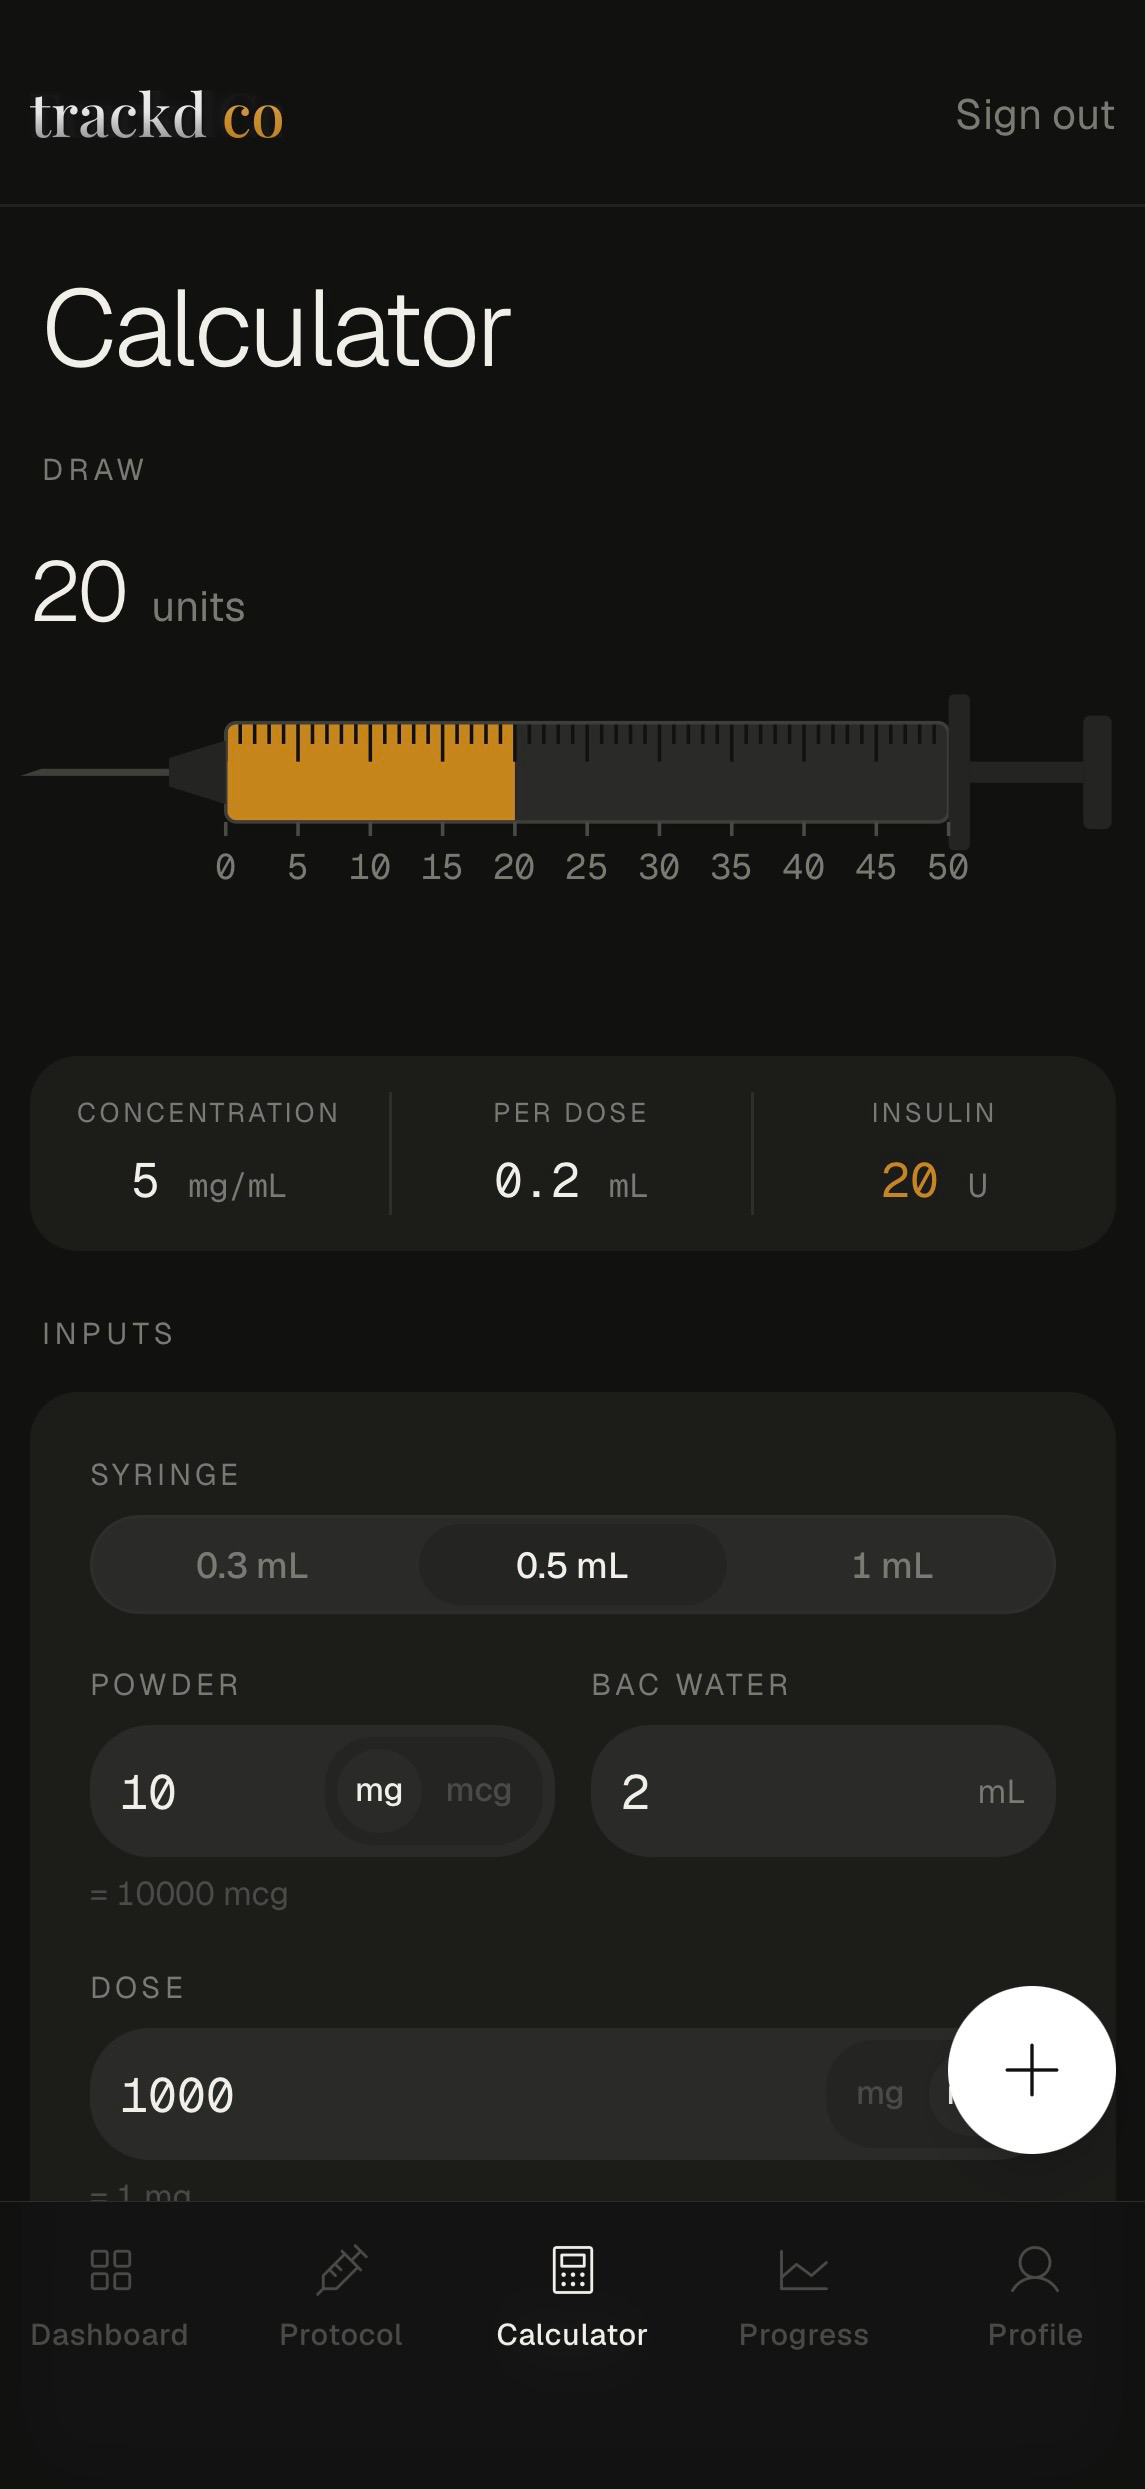
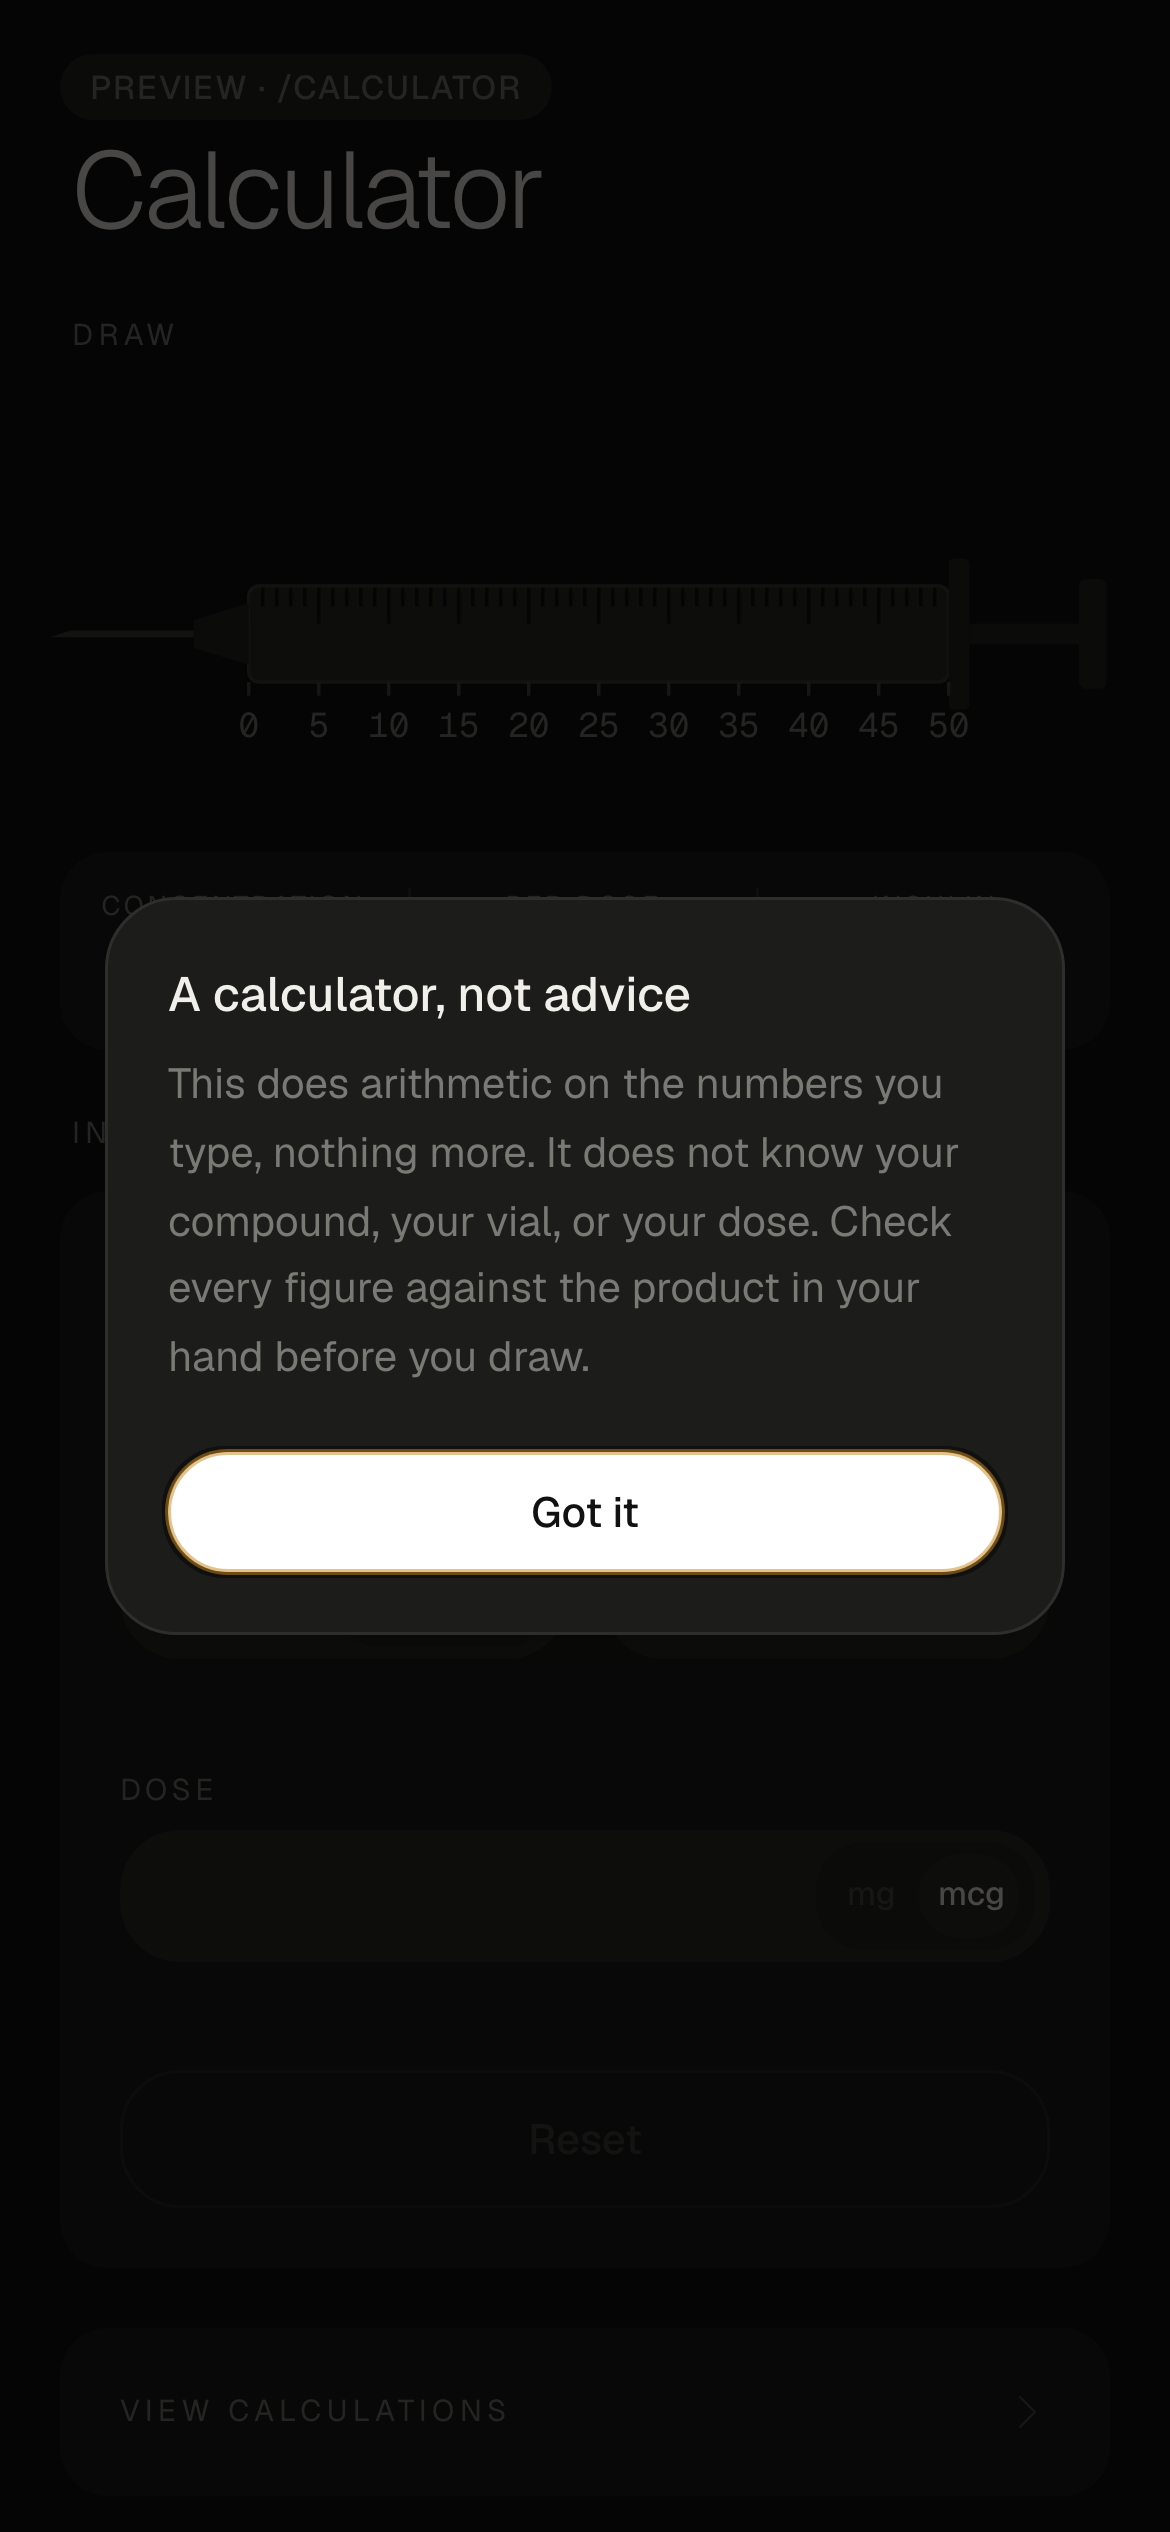
Three of four carousel slides, the affiliate code, and a Vercel rename that will not break checkout
The onboarding carousel showed the retired serif wordmark on all four slides —
during onboarding, to NEW signups, who are exactly the cohort the rebrand
notice deliberately withholds the explanation from. They would have seen the
old brand with no context for it, by design.

Three are recaptured. app-protocol is NOT, and is left at its original: its
/preview route returns HTTP 200 and renders an empty screen, so the capture was
a 14KB slab of pure background. A stale slide is bad; a blank one is worse.
The script now refuses any page that draws under 80 characters of text, because
a 200 is not evidence that anything was drawn — that guard is the only reason
this was caught rather than shipped.

Two more things only looking at the output would have caught: the /preview/*
routes wrap the screen in a "Preview · Home" pill, which would have shipped the
word PREVIEW into a marketing slide; and the originals were captured from the
signed-in app, not the harness, so their top-right reads "Sign out". Neither
chrome is right for a carousel, so the pill is hidden and the wordmark stands
alone.

All four are now 1170x2532, which is what app-carousel.tsx has always declared.
The files were 688x1504 and 1145x2489 — two sizes, neither of them the declared
one, close enough in ratio that object-cover hid it.

isOwnPreview accepts both Vercel project slugs. Renaming the project changes
every preview hostname, so holding only one slug hands a preview checkout the
[…]

diff --git a/lib/billing/originAllowlist.ts b/lib/billing/originAllowlist.ts
@@ -96,10 +96,24 @@ export function isLocalHost(hostname: string): boolean {
 export function isOwnPreview(hostname: string): boolean {
   if (!hostname.endsWith(".vercel.app")) return false;
   const label = hostname.slice(0, -".vercel.app".length);
-  return label === PROJECT || label.startsWith(`${PROJECT}-`);
+  return PROJECTS.some((p) => label === p || label.startsWith(`${p}-`));
 }
 
-const PROJECT = "trackd-co-app";
+/**
+ * ⚠ BOTH SLUGS, AND THE OLD ONE IS NOT DEAD WEIGHT.
+ *
+ * Vercel builds a preview hostname from the PROJECT name, so renaming the
+ * project changes every preview URL. If this held only the new slug, previews
+ * built before the rename would stop matching `isOwnPreview` and be handed the
+ * production origin as a Stripe return URL — a checkout started on a preview
+ * would return to production. If it held only the old one, the same happens to
+ * every preview after the rename.
+ *
+ * It cannot be widened to bare `.vercel.app`: that is every Vercel customer on
+ * earth, and this value is where a payment provider sends a signed-in user. A
+ * cold review found exactly that hole here once already.
+ */
+const PROJECTS = ["trakabl", "trackd-co-app"];
 
 /** The whole decision. */
 export function isAllowedHost(hostname: string): boolean {

diff --git a/lib/onboarding/pricing.test.ts b/lib/onboarding/pricing.test.ts
@@ -241,7 +241,7 @@ describe("intervalSuffix", () => {
 
 describe("affiliate codes", () => {
   it("normalises case and whitespace", () => {
-    expect(normaliseCode("  trackd ")).toBe("TRACKD");
+    expect(normaliseCode("  trakabl ")).toBe("TRAKABL");
   });
 
   it("rejects a code that is not code-shaped", () => {
@@ -259,9 +259,9 @@ describe("affiliate codes", () => {
   });
 
   it("applies a known code", async () => {
-    await expect(validateCode("TRACKD")).resolves.toMatchObject({
+    await expect(validateCode("TRAKABL")).resolves.toMatchObject({
       status: "applied",
-      code: "TRACKD",
+      code: "TRAKABL",
     });
   });
 

diff --git a/lib/onboarding/affiliate.ts b/lib/onboarding/affiliate.ts
@@ -47,7 +47,11 @@ export type CodeVerdict =
  * backend. D-6 default is applied: a code deepens the ANNUAL offer.
  */
 const KNOWN_CODES = new Map<string, { annualOnly: boolean }>([
-  ["TRACKD", { annualOnly: true }],
+  // ⚠ RENAMED WHILE IT WAS STILL FREE TO. A code is typed by a person and
+  // lives on whatever was printed or posted; once any are in circulation,
+  // changing one breaks it for whoever holds it. None are, so this is the last
+  // cheap moment (Adrian, 2026-09-22).
+  ["TRAKABL", { annualOnly: true }],
   ["ANGUS", { annualOnly: true }],
 ]);
 

diff --git a/lib/billing/stripe.ts b/lib/billing/stripe.ts
@@ -1,6 +1,7 @@
 import "server-only";
 
 import Stripe from "stripe";
+import { BUSINESS_NAME, CANONICAL_ORIGIN } from "@/lib/brand";
 
 /**
  * The server-side Stripe client, and the guard that stops the mode mistake.
@@ -48,7 +49,7 @@ export function stripe(): Stripe {
      * the drift worth worrying about: a version bump there cannot change what
      * this client parses.
      */
-    appInfo: { name: "Trakabl", url: "https://trackdco.app" },
+    appInfo: { name: BUSINESS_NAME, url: CANONICAL_ORIGIN },
   });
   return client;
 }
